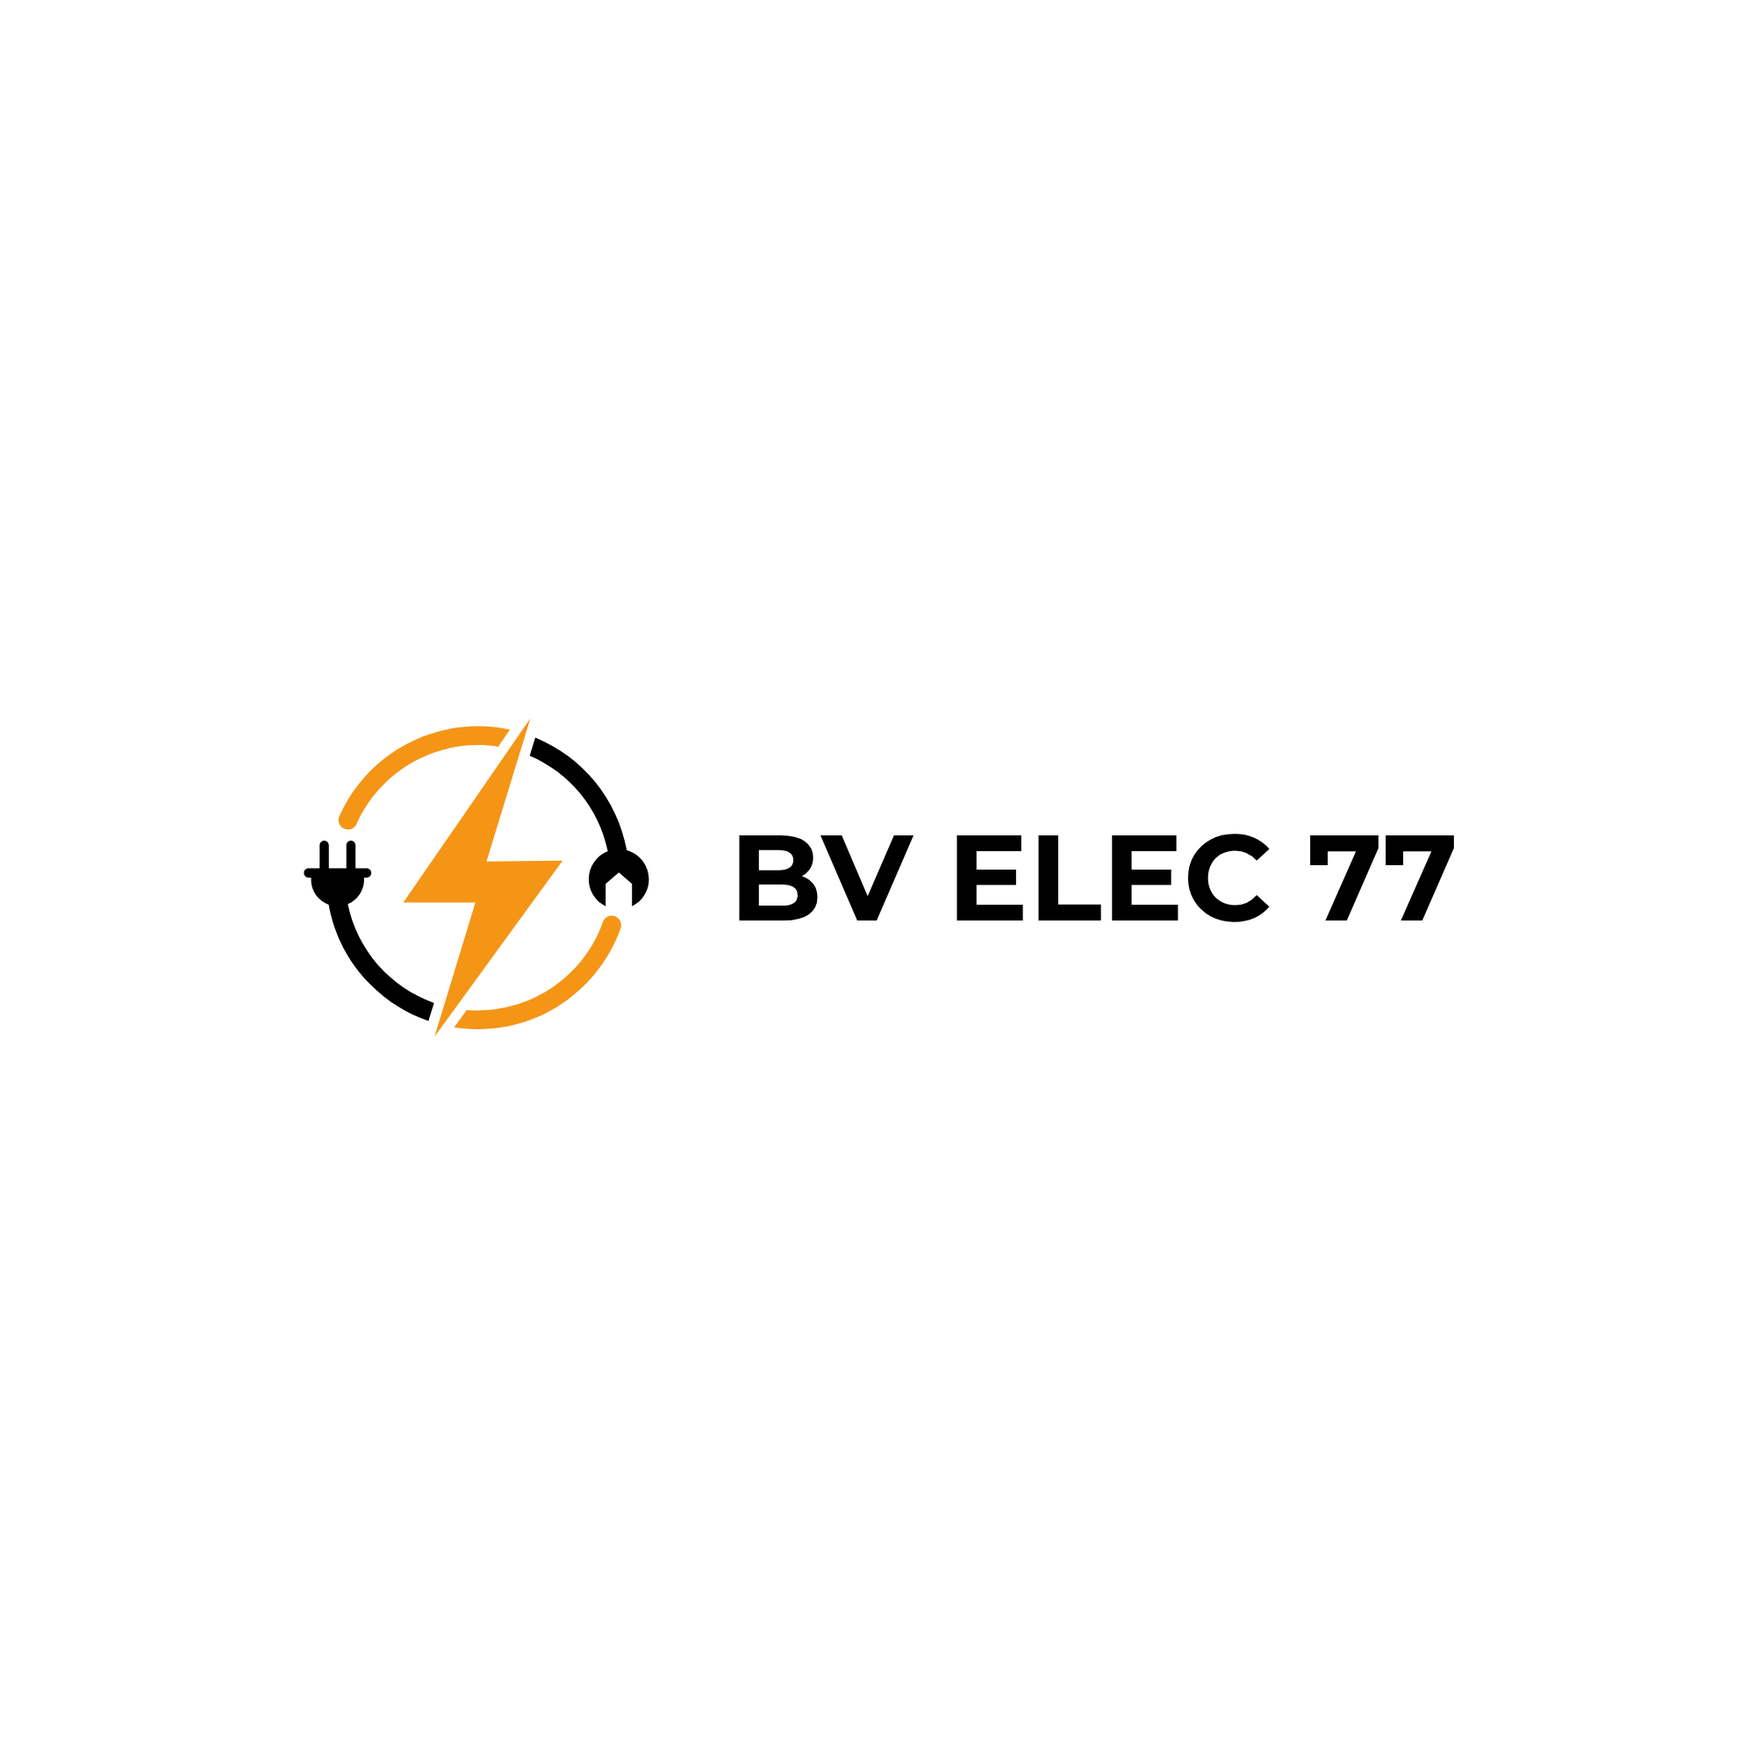
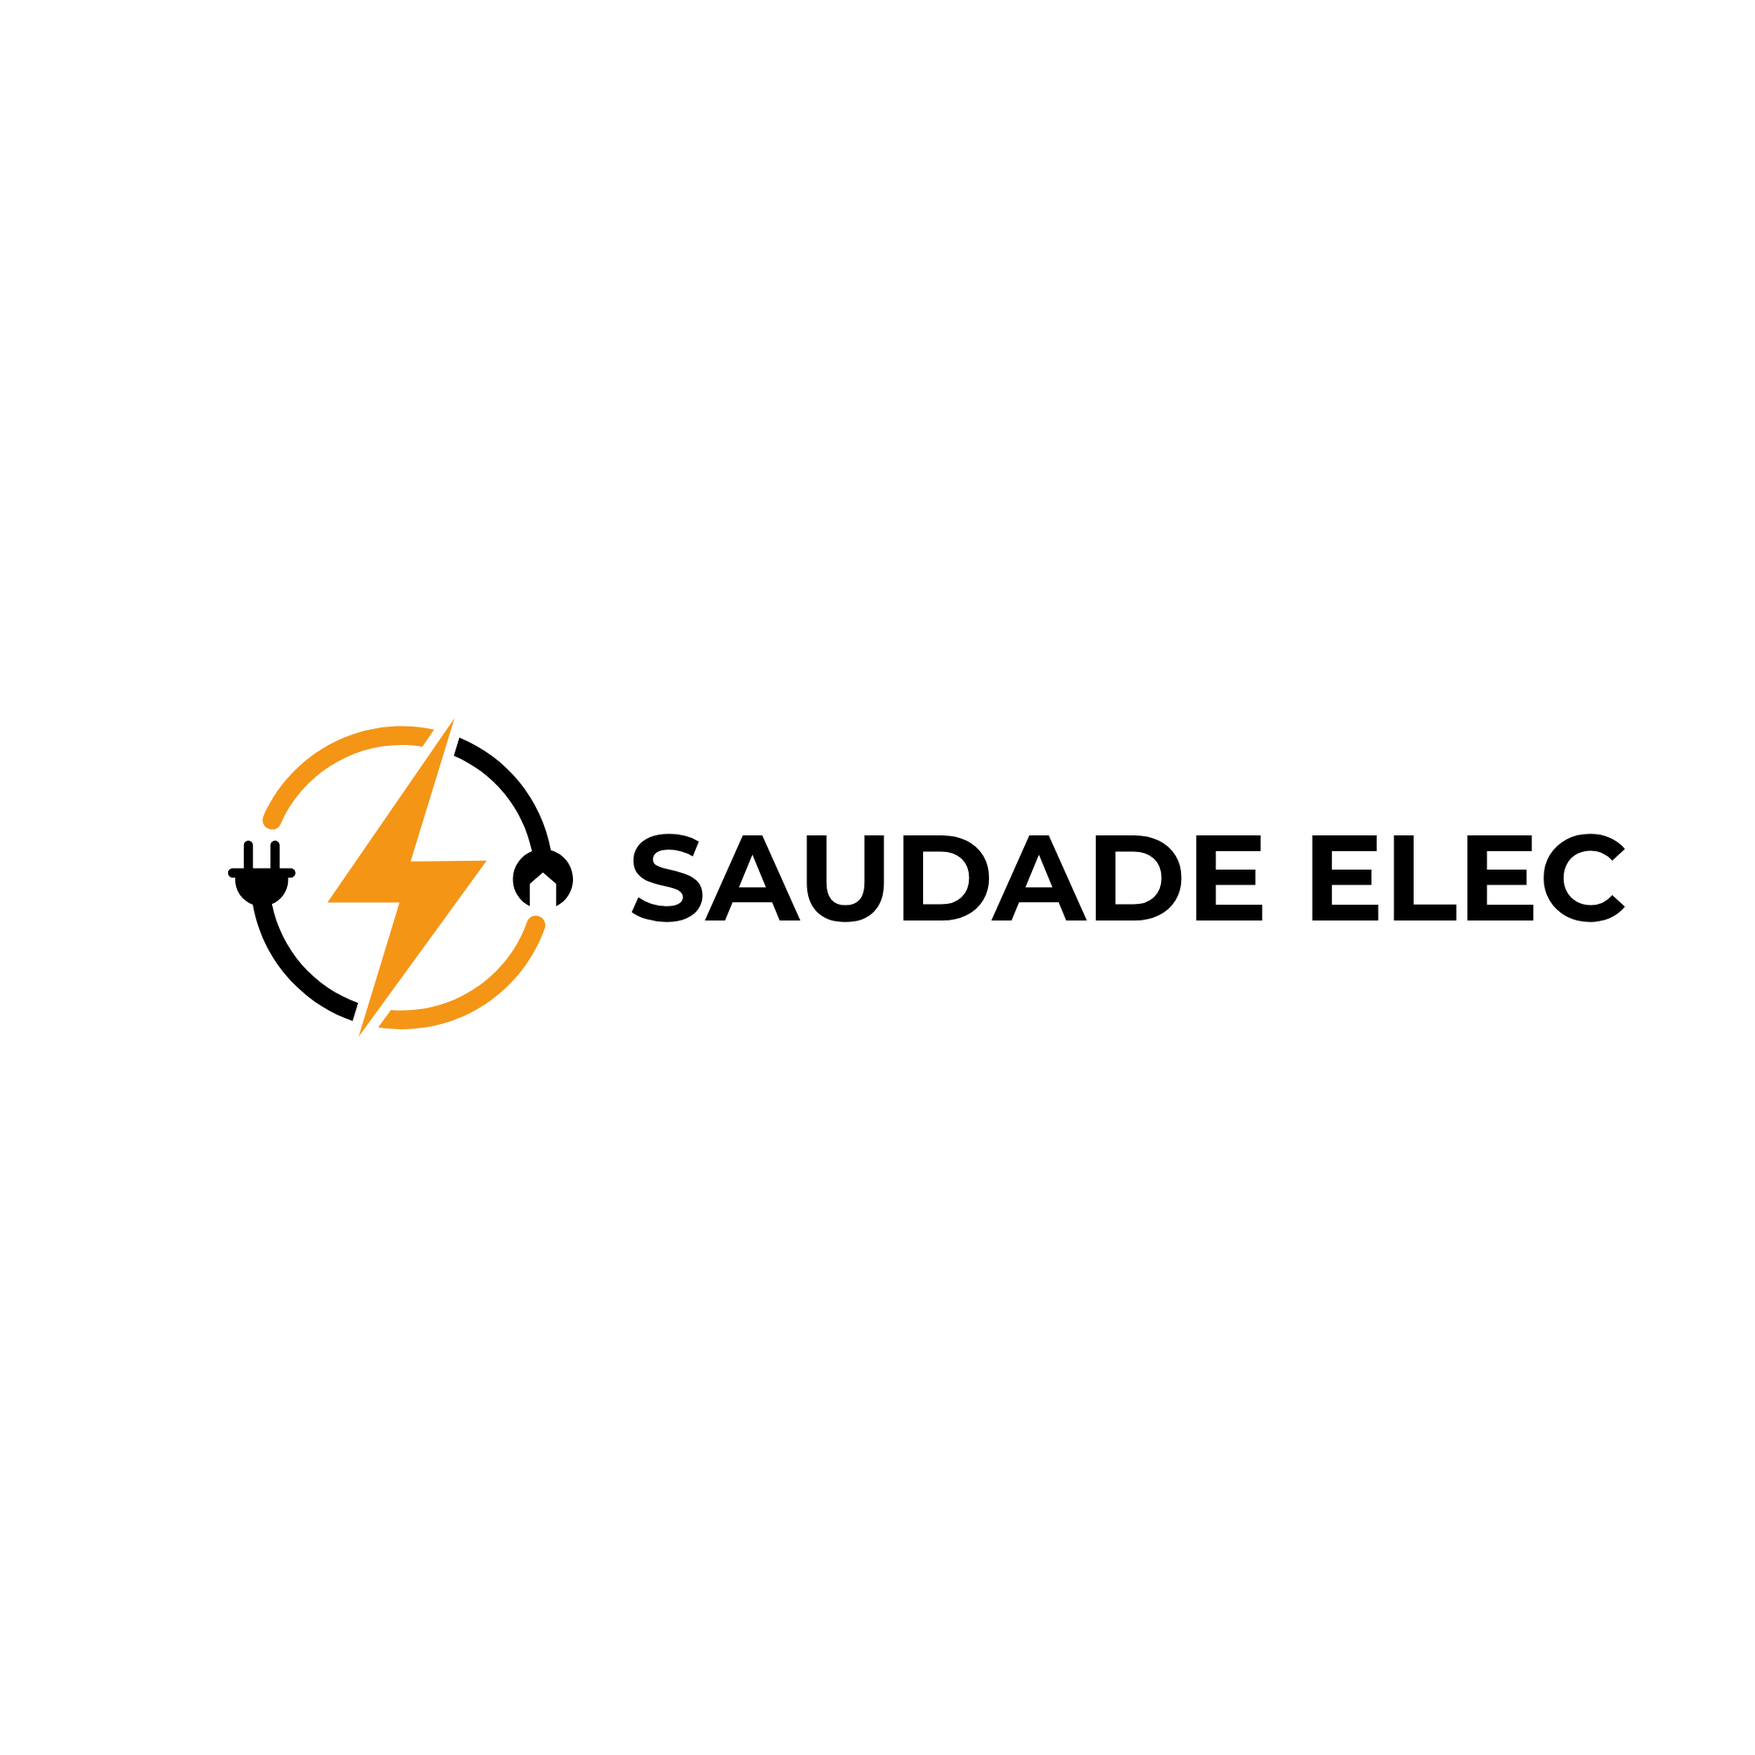
ok

Changed region(s): [[0.124, 0.403, 0.713, 0.589], [0.744, 0.465, 0.93, 0.527]]

diff --git a/components/footer.tsx b/components/footer.tsx
@@ -25,29 +25,29 @@ export function Footer() {
           {/* Brand */}
           <div className="lg:col-span-1">
             <Link href="/" className="flex items-center gap-2 mb-6">
-              <Image src="/BV.png" alt="BV ELEC 77" width={40} height={40} className="rounded-lg" />
-              <span className="font-semibold text-xl tracking-tight">BV ELEC 77</span>
+              <Image src="/BV.png" alt="SAUDADE ELEC" width={40} height={40} className="rounded-lg" />
+              <span className="font-semibold text-xl tracking-tight">SAUDADE ELEC</span>
             </Link>
             <p className="text-primary-foreground/70 text-sm leading-relaxed mb-6">
-              Électricien professionnel en Seine-et-Marne. Installation, dépannage et mise aux normes électriques.
+              Électricité générale à Béziers et ses alentours. Installation, dépannage et mise aux normes électriques.
             </p>
             <div className="space-y-3">
-              <a href="tel:+33625744730" className="flex items-center gap-2 text-sm hover:text-primary-foreground/80 transition-colors">
+              <a href="tel:+33625087121" className="flex items-center gap-2 text-sm hover:text-primary-foreground/80 transition-colors">
                 <Phone className="w-4 h-4" />
-                06 25 74 47 30
+                06 25 08 71 21
               </a>
-              <a href="mailto:contact@bvelec77.fr" className="flex items-center gap-2 text-sm hover:text-primary-foreground/80 transition-colors">
+              <a href="mailto:contact@saudadeelec.fr" className="flex items-center gap-2 text-sm hover:text-primary-foreground/80 transition-colors">
                 <Mail className="w-4 h-4" />
-                contact@bvelec77.fr
+                contact@saudadeelec.fr
               </a>
               <a
-                href="https://www.google.com/maps/place/BV+ELEC+77/@49.0102042,2.8293269,17z/data=!3m1!4b1!4m6!3m5!1s0x47e621aa2e7170ad:0xb06979a0274e859f!8m2!3d49.0102042!4d2.8293269!16s%2Fg%2F11w_y6vhp7?authuser=0&hl=fr&entry=ttu&g_ep=EgoyMDI2MDMyNC4wIKXMDSoASAFQAw%3D%3D"
+                href="https://www.google.com/maps/place/SAUDADE+ELEC/@43.3399759,3.2302558,17z/data=!3m1!4b1!4m6!3m5!1s0x433037e2e064faf1:0x351131b52e866443!8m2!3d43.3399759!4d3.2302558!16s%2Fg%2F11wnknhr6k?entry=ttu&g_ep=EgoyMDI2MDMzMC4wIKXMDSoASAFQAw%3D%3D"
                 target="_blank"
                 rel="noopener noreferrer"
                 className="flex items-start gap-2 text-sm text-primary-foreground/70 hover:text-primary-foreground transition-colors"
               >
                 <MapPin className="w-4 h-4 flex-shrink-0 mt-0.5" />
-                <span>6 Rue du Gué, 77122 Monthyon</span>
+                <span>15 Rue Jacques Ferréol Mazas, 34500 Béziers</span>
               </a>
             </div>
           </div>
@@ -98,23 +98,23 @@ export function Footer() {
             <div className="space-y-2 text-sm text-primary-foreground/70">
               <div className="flex justify-between">
                 <span>Lundi</span>
-                <span>08:00 - 17:00</span>
+                <span>09:00 - 17:00</span>
               </div>
               <div className="flex justify-between">
                 <span>Mardi</span>
-                <span>08:00 - 17:00</span>
+                <span>09:00 - 17:00</span>
               </div>
               <div className="flex justify-between">
                 <span>Mercredi</span>
-                <span>08:00 - 17:00</span>
+                <span>09:00 - 17:00</span>
               </div>
               <div className="flex justify-between">
                 <span>Jeudi</span>
-                <span>08:00 - 17:00</span>
+                <span>09:00 - 17:00</span>
               </div>
               <div className="flex justify-between">
                 <span>Vendredi</span>
-                <span>08:00 - 17:00</span>
+                <span>09:00 - 17:00</span>
               </div>
               <div className="flex justify-between">
                 <span>Samedi</span>
@@ -131,7 +131,7 @@ export function Footer() {
         <div className="mt-12 pt-8 border-t border-primary-foreground/10">
           <div className="flex flex-col md:flex-row justify-between items-center gap-4">
             <p className="text-sm text-primary-foreground/60">
-              © {new Date().getFullYear()} BV ELEC 77. Tous droits réservés.
+              © {new Date().getFullYear()} SAUDADE ELEC. Tous droits réservés.
             </p>
             <div className="flex items-center gap-6">
               <Link href="#" className="text-sm text-primary-foreground/60 hover:text-primary-foreground transition-colors">

diff --git a/components/contact-form.tsx b/components/contact-form.tsx
@@ -46,7 +46,7 @@ export function ContactForm() {
               
               <div className="space-y-6">
                 <a
-                  href="tel:+33625744730"
+                  href="tel:+33625087121"
                   className="flex items-start gap-4 group"
                 >
                   <div className="w-12 h-12 bg-primary/5 rounded-lg flex items-center justify-center flex-shrink-0 group-hover:bg-primary/10 transition-colors">
@@ -55,13 +55,13 @@ export function ContactForm() {
                   <div>
                     <p className="font-medium text-foreground">Téléphone</p>
                     <p className="text-muted-foreground group-hover:text-primary transition-colors">
-                      06 25 74 47 30
+                      06 25 08 71 21
                     </p>
                   </div>
                 </a>
 
                 <a
-                  href="mailto:contact@bvelec77.fr"
+                  href="mailto:contact@saudadeelec.fr"
                   className="flex items-start gap-4 group"
                 >
                   <div className="w-12 h-12 bg-primary/5 rounded-lg flex items-center justify-center flex-shrink-0 group-hover:bg-primary/10 transition-colors">
@@ -70,7 +70,7 @@ export function ContactForm() {
                   <div>
                     <p className="font-medium text-foreground">Email</p>
                     <p className="text-muted-foreground group-hover:text-primary transition-colors">
-                      contact@bvelec77.fr
+                      contact@saudadeelec.fr
                     </p>
                   </div>
                 </a>
@@ -82,8 +82,8 @@ export function ContactForm() {
                   <div>
                     <p className="font-medium text-foreground">Adresse</p>
                     <p className="text-muted-foreground">
-                      6 Rue du Gué<br />
-                      77122 Monthyon, France
+                      15 Rue Jacques Ferréol Mazas<br />
+                      34500 Béziers, France
                     </p>
                   </div>
                 </div>
@@ -95,7 +95,7 @@ export function ContactForm() {
                   <div>
                     <p className="font-medium text-foreground">Horaires</p>
                     <div className="text-muted-foreground text-sm space-y-1">
-                      <p>Lundi - Vendredi : 08:00 - 17:00</p>
+                      <p>Lundi - Vendredi : 09:00 - 17:00</p>
                       <p>Samedi - Dimanche : Fermé</p>
                     </div>
                   </div>
@@ -106,14 +106,14 @@ export function ContactForm() {
             {/* Map placeholder */}
             <div className="aspect-video bg-muted rounded-xl overflow-hidden relative">
               <iframe
-                src="https://www.google.com/maps/embed?pb=!1m18!1m12!1m3!1d2617.507895553556!2d2.8089!3d49.0181!2m3!1f0!2f0!3f0!3m2!1i1024!2i768!4f13.1!3m3!1m2!1s0x47e8a1e3c0a3b1e7%3A0x4c8b1f3c8f8b1f3c!2s6%20Rue%20du%20Gu%C3%A9%2C%2077122%20Monthyon!5e0!3m2!1sfr!2sfr!4v1234567890"
+                src="https://www.google.com/maps/embed?pb=!1m18!1m12!1m3!1d2858.5!2d3.2302558!3d43.3399759!2m3!1f0!2f0!3f0!3m2!1i1024!2i768!4f13.1!3m3!1m2!1s0x433037e2e064faf1%3A0x351131b52e866443!2sSAUDADE%20ELEC!5e0!3m2!1sfr!2sfr!4v1680000000000"
                 width="100%"
                 height="100%"
                 style={{ border: 0 }}
                 allowFullScreen
                 loading="lazy"
                 referrerPolicy="no-referrer-when-downgrade"
-                title="Localisation BV ELEC 77"
+                title="Localisation SAUDADE ELEC"
               />
             </div>
           </div>

diff --git a/components/header.tsx b/components/header.tsx
@@ -21,7 +21,7 @@ export function Header() {
     <header className="fixed top-0 left-0 right-0 z-50 bg-background/95 backdrop-blur-sm border-b border-border">
       <nav className="mx-auto flex max-w-7xl items-center justify-between px-6 py-0 h-16 lg:px-8">
         <Link href="/" className="flex items-center gap-2">
-          <Image src="/BV.png" alt="BV ELEC 77" width={360} height={360} className="rounded-lg" style={{ height: 216, width: "auto" }} />
+          <Image src="/BV.png" alt="SAUDADE ELEC" width={360} height={360} className="rounded-lg" style={{ height: 216, width: "auto" }} />
         </Link>
 
         <div className="hidden lg:flex lg:gap-x-8">
@@ -38,11 +38,11 @@ export function Header() {
 
         <div className="hidden lg:flex lg:items-center lg:gap-4">
           <a
-            href="tel:+33625744730"
+            href="tel:+33625087121"
             className="flex items-center gap-2 text-sm font-medium text-foreground"
           >
             <Phone className="w-4 h-4" />
-            06 25 74 47 30
+            06 25 08 71 21
           </a>
           <Button asChild>
             <Link href="#contact">Devis gratuit</Link>
@@ -79,11 +79,11 @@ export function Header() {
             ))}
             <div className="pt-4 space-y-3">
               <a
-                href="tel:+33625744730"
+                href="tel:+33625087121"
                 className="flex items-center gap-2 text-base font-medium text-foreground"
               >
                 <Phone className="w-5 h-5" />
-                06 25 74 47 30
+                06 25 08 71 21
               </a>
               <Button asChild className="w-full">
                 <Link href="#contact" onClick={() => setMobileMenuOpen(false)}>

diff --git a/components/services.tsx b/components/services.tsx
@@ -47,7 +47,7 @@ export function Services() {
               Nos services
             </p>
             <h2 className="text-3xl md:text-4xl font-bold text-foreground mb-6 text-balance">
-              Électricité générale en Seine-et-Marne et Île-de-France
+              Électricité générale à Béziers et ses alentours
             </h2>
             <p className="text-lg text-muted-foreground mb-8">
               De l&apos;installation au dépannage, nous intervenons sur tous vos projets électriques 
@@ -97,7 +97,7 @@ export function Services() {
         <div className="mt-16 bg-card border border-border rounded-2xl p-8 text-center">
           <p className="text-lg text-foreground">
             <span className="font-bold">Zone d&apos;intervention :</span>{" "}
-            <span className="text-muted-foreground">Monthyon, Meaux, Claye-Souilly, Dammartin-en-Goële, toute la Seine-et-Marne (77) et l&apos;Île-de-France</span>
+            <span className="text-muted-foreground">Nous intervenons à Béziers et ses alentours</span>
           </p>
         </div>
       </div>

diff --git a/components/hero.tsx b/components/hero.tsx
@@ -46,7 +46,7 @@ export function Hero() {
             <div className="w-full bg-white/10 backdrop-blur-md border border-white/20 rounded-2xl p-5 shadow-2xl">
               <p className="text-white font-semibold mb-2">Zone d&apos;intervention</p>
               <p className="text-white/70 text-sm">
-                Monthyon, Meaux, Claye-Souilly, Dammartin, toute la Seine-et-Marne et l&apos;Île-de-France
+                Nous intervenons à Béziers et ses alentours
               </p>
             </div>
           </div>
@@ -61,9 +61,9 @@ export function Hero() {
                 </Link>
               </Button>
               <Button size="lg" variant="outline" asChild className="text-base border-white/30 bg-white/10 backdrop-blur-sm text-white hover:bg-white/20 hover:text-white h-14 px-8">
-                <a href="tel:+33625744730">
+                <a href="tel:+33625087121">
                   <Phone className="mr-2 h-5 w-5" />
-                  06 25 74 47 30
+                  06 25 08 71 21
                 </a>
               </Button>
             </div>

diff --git a/app/layout.tsx b/app/layout.tsx
@@ -6,9 +6,9 @@ import './globals.css'
 const inter = Inter({ subsets: ["latin"], variable: "--font-inter" });
 
 export const metadata: Metadata = {
-  title: 'BV ELEC 77 | Électricien à Monthyon - Seine-et-Marne',
-  description: 'BV ELEC 77 - Électricité générale en Seine-et-Marne et Île-de-France. Installation, dépannage et mise aux normes électriques. Devis gratuit au 06 25 74 47 30.',
-  keywords: 'électricien, électricité, Seine-et-Marne, 77, Île-de-France, Monthyon, installation électrique, dépannage, mise aux normes',
+  title: 'SAUDADE ELEC | Électricité générale à Béziers et ses alentours',
+  description: 'SAUDADE ELEC - Électricité générale à Béziers et ses alentours. Installation, dépannage et mise aux normes électriques. Devis gratuit au 06 25 08 71 21.',
+  keywords: 'électricien, électricité, Béziers, Hérault, installation électrique, dépannage, mise aux normes',
   icons: {
     icon: [
       {

diff --git a/components/realizations.tsx b/components/realizations.tsx
@@ -10,7 +10,7 @@ const realizations = [
   {
     title: "Rénovation complète maison",
     category: "Résidentiel",
-    location: "Monthyon",
+    location: "Béziers",
     description: "Mise aux normes et rénovation complète de l'installation électrique d'une maison de 150m².",
     image: "/images/renovation-work.jpg",
   },
@@ -45,7 +45,7 @@ const realizations = [
   {
     title: "Éclairage extérieur",
     category: "Rénovation",
-    location: "Monthyon",
+    location: "Béziers",
     description: "Installation d'éclairage extérieur et de jardin pour une propriété résidentielle.",
     image: "/images/outdoor-lighting.jpg",
   },

diff --git a/components/faq.tsx b/components/faq.tsx
@@ -10,7 +10,7 @@ import {
 const faqs = [
   {
     question: "Quelle est votre zone d'intervention ?",
-    answer: "Nous intervenons principalement en Seine-et-Marne (77) et dans toute l'Île-de-France. Notre base est à Monthyon, ce qui nous permet d'être réactifs sur les secteurs de Meaux, Claye-Souilly, Dammartin-en-Goële et les communes environnantes.",
+    answer: "Nous intervenons principalement à Béziers et dans toute l'Île-de-France. Notre base est à Béziers, ce qui nous permet d'être réactifs sur l'ensemble de la région.",
   },
   {
     question: "Le devis est-il vraiment gratuit ?",

diff --git a/components/approach.tsx b/components/approach.tsx
@@ -28,7 +28,7 @@ export function Approach() {
             <div className="relative aspect-[4/3] rounded-3xl overflow-hidden">
               <Image
                 src="/images/renovation-work.jpg"
-                alt="Électricien BV ELEC 77 au travail"
+                alt="Électricien SAUDADE ELEC au travail"
                 fill
                 className="object-cover"
               />

diff --git a/components/reviews.tsx b/components/reviews.tsx
@@ -3,7 +3,7 @@ import { Star, Quote } from "lucide-react"
 const reviews = [
   {
     name: "Marie L.",
-    location: "Monthyon",
+    location: "Béziers",
     rating: 5,
     text: "Très professionnel et réactif. Le devis était clair et le travail a été fait proprement. Je recommande sans hésiter.",
     service: "Mise aux normes tableau électrique",
